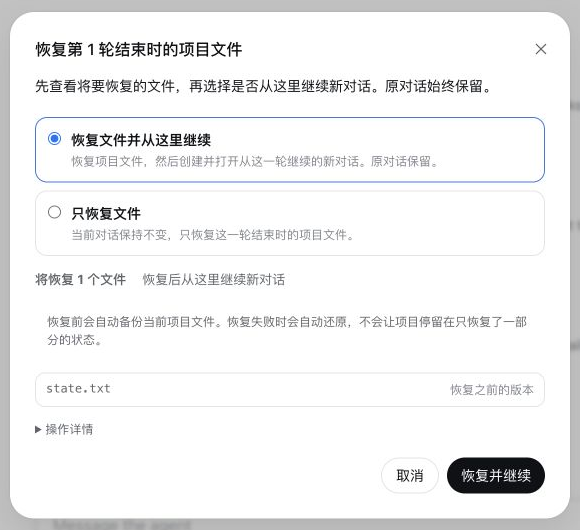
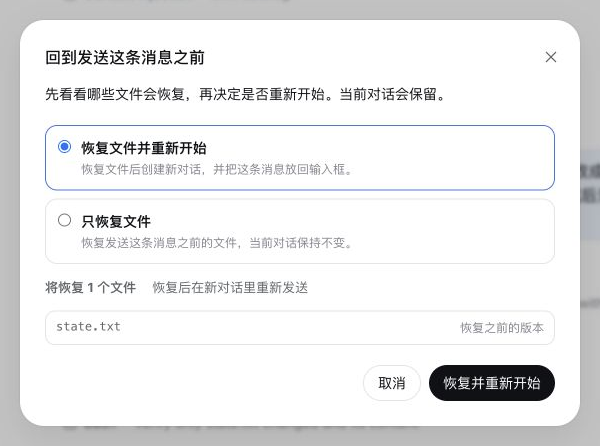
docs: show prompt-anchored rewind flow

diff --git a/README.md b/README.md
@@ -2,7 +2,7 @@
 
 [中文说明](README.zh.md)
 
-Turn-level project-file recovery for [DeepSeek Harness](https://github.com/deepseek-ai/deepseek-harness), with an option to continue from the restored turn.
+Message-anchored project-file recovery for [DeepSeek Harness](https://github.com/deepseek-ai/deepseek-harness), with an option to restart from the restored request.
 
 **Turn Rewind** is the user-facing feature, repository, and Profile Bundle name. **Change Ledger** is the durable restore engine underneath it: the `ctx.changeLedger` service, `change_ledger_*` tools, on-disk format, and storage path keep that name because they describe the reusable snapshot and recovery layer rather than the Web action alone.
 
@@ -26,11 +26,11 @@ It never commits, stashes, resets, switches branches, edits the Git index, or de
 
 ## Preview
 
-Rewind appears as the third icon beside DSH's native Copy and Branch actions:
+Rewind appears as an icon-only third action under each user message, after its timestamp and native Copy action:
 
-![Turn Rewind action beside Copy and Branch](docs/assets/turn-rewind-action.png)
+![Turn Rewind action under a user message](docs/assets/turn-rewind-action.png)
 
-Opening it shows the affected files and offers two choices: restore the files and continue from that turn, or restore only the files:
+Opening it shows the affected files and offers two choices: restore the files and restart from before that message, or restore only the files:
 
 ![Turn Rewind review dialog](docs/assets/turn-rewind-dialog.png)
 
@@ -101,22 +101,22 @@ Restart a running profile after changing its bundle list.
 
 The package is a DSH Profile Bundle. `package.json` declares `dsh.bundle.patch`, and `cordis.patch.yml` mounts `@dsh-external/turn-rewind` without a DSH core patch.
 
-When the profile also provides the DSH Agent service, the plugin claims the Agent's idle maintenance boundary after each completed turn and captures a hidden checkpoint before queued work may start another turn. It deliberately does not synthesize checkpoints for history resumed before the plugin observed its turn boundary, because the current project files may no longer represent that earlier turn. In Web profiles, the same-origin `/turn-rewind` endpoint exposes a paged file preview, mints the ordinary short-lived, session-bound restore plan, and delegates “continue from here” child creation to DSH's official Host fork lifecycle. It never restores merely because a turn completed.
+When the profile also provides the DSH Agent service, the plugin captures a hidden checkpoint in the first `agent/pre-step` waterfall before the Agent processes the opening user message. Capture failures are reported but do not reject the user's turn; the corresponding message simply has no usable rewind point. In Web profiles, the same-origin `/turn-rewind` endpoint resolves the selected `user/message` sequence, exposes a paged file preview, mints a short-lived session-bound restore plan, and delegates child creation to DSH's official Host create/fork lifecycle. It never restores files automatically.
 
 ## User flow
 
-In the Web profile, each finalized assistant turn gains a compact, icon-only **Rewind** action in the third position after the native Copy and Branch controls. The icon is a backward/undo arrow rather than a retry symbol. Opening Rewind checks the saved file state lazily, shows a concise preview with a “view all files” action, and offers two modes:
+In the Web profile, each direct user message gains a compact, icon-only **Rewind** action after its timestamp and native Copy control. The tooltip reads “Return to before sending this message.” Opening Rewind checks the saved file state, shows a concise preview with a “view all files” action, and offers two modes:
 
 | Mode | Code | Conversation |
 | --- | --- | --- |
-| **Restore files and continue** (default) | Restores the project files after automatically backing up their current state. | Creates and opens a child Session ending at the selected turn. |
+| **Restore files and restart** (default) | Restores the project files after automatically backing up their current state. | Creates and opens a Session ending before the selected message, then puts that message's text back in the composer. |
 | **Restore files only** | Restores the project files after automatically backing up their current state. | Leaves the current Session open and unchanged. |
 
-The dialog itself is the confirmation: there is no duplicate checkbox. It describes each file as restoring an earlier version, finding a deleted file, removing a later-added file, or restoring permissions/type. Internal checkpoint, plan, and backup identifiers live under collapsed operation details. If the project files already match the selected turn, Turn Rewind performs no action and directs the user to the native **Branch** button for conversation-only branching.
+The dialog itself is the confirmation: there is no duplicate checkbox. It describes each file as restoring an earlier version, finding a deleted file, removing a later-added file, or restoring permissions/type. If the project files already match the state before the selected message, Turn Rewind performs no action and directs the user to the native **Branch** button for conversation-only branching.
 
-Before mutation, Turn Rewind rechecks the selected files and repository state, then creates an automatic backup. Changes made after preview invalidate the operation. Another running Session using the same worktree blocks restoration because file recovery would affect that conversation too; idle Sessions do not block. If child creation fails after “restore and continue,” Change Ledger automatically restores the pre-operation files from the backup.
+Before mutation, Turn Rewind rechecks the selected files and repository state, then creates an automatic backup. Changes made after preview invalidate the operation. Any running Agent using the same worktree, including the source Session, blocks restoration; idle Sessions do not block. A reviewed HEAD or branch difference does not block restoration: commits, refs, branch, and index remain unchanged, so restored content may appear as ordinary uncommitted changes against the current HEAD. An in-progress Git operation still blocks. If child creation fails after “restore and restart,” Change Ledger automatically restores the pre-operation files from the backup.
 
-DSH Session logs are append-only, so “continue from here” asks the official Host API to create a child at the exact completed-turn boundary and then opens that child. A forked child may reuse an ancestor's checkpoint only while the requested boundary is inside every durable `seedLength` fence and still matches the ancestor's exact `turn/end`; direct child checkpoints take priority and sibling checkpoints never mix. **Branch** creates only a conversation branch and keeps project files unchanged; **Turn Rewind** always restores project files, optionally followed by a conversation branch. The original Session is always retained.
+DSH Session logs are append-only, so “restart” creates a new Session instead of truncating the original. For the first message, the Host creates a blank Session in the same working directory; for later messages, it forks at the previous completed `turn/end`. A child may reuse an ancestor's prompt checkpoint only while both the selected `user/message` and its exact `turn/start` remain inside every durable `seedLength` fence. Direct child checkpoints take priority and sibling checkpoints never mix. **Branch** creates only a conversation branch and keeps project files unchanged; **Turn Rewind** always restores project files, optionally followed by a new conversation with the selected prompt restored to the composer. The original Session is always retained.
 
 Example requests:
 

diff --git a/docs/IMPLEMENTATION_PLAN.md b/docs/IMPLEMENTATION_PLAN.md
@@ -1,54 +1,56 @@
-# Turn Rewind 实施计划
+# Turn Rewind 对齐计划
 
 ## 目标
 
-将 Turn Rewind 调整为面向普通用户的文件恢复功能，明确它与“分支新对话”（Branch）的功能边界，并补齐多 Session、多层分叉和共享工作区场景下的安全处理。
+让 Web 端 Rewind 以用户消息为锚点：用户点击消息下方的回退图标，就能查看并恢复“发送这条消息之前”的项目文件，并可选择在新对话里重新开始。产品语义对齐 Claude Code，同时保留 Change Ledger 对完整工作树、自动备份、失败回滚和持久恢复的支持。
 
-## 实施内容
+## 已实现内容
 
-### 1. 简化用户界面和文案
+### 1. 用户消息锚点
 
-- 将“工作区”“代码路径”“救援点”“恢复计划”等技术术语替换为用户容易理解的“项目文件”“自动备份”“恢复文件”等表述。
-- 将默认操作改为“恢复文件并从这里继续”，第二个操作改为“只恢复文件”。
-- 删除“仅回退对话”选项，由现有“分支新对话”功能统一承担只创建对话分支的场景。
-- 删除重复确认复选框，将弹窗中的影响范围展示和最终主按钮点击作为确认流程。
-- 根据所选模式动态显示“恢复并继续”或“恢复文件”按钮。
-- 将底层检查点、分支、恢复计划和备份标识等信息收进默认折叠的操作详情。
+- 回退图标从 Assistant 回复操作栏移到用户消息下方，排在时间和“复制”之后，无文字显示。
+- 提示和弹窗标题统一为“回到发送这条消息之前”。
+- 客户端按 `user/message` 的 `seq` 请求预览，不再用 Assistant Turn 尾部作为入口。
+- 新对话创建后，会把所选用户消息的文字放回输入框。
 
-### 2. 改善文件变化展示
+### 2. 消息发送前保存文件
 
-- 使用“将恢复 N 个文件”替代“代码路径与该轮不同”。
-- 按文件的实际变化显示“恢复之前的版本”“找回文件”“移除后来新增的文件”或“恢复文件权限”等结果。
-- 文件较多时提供简洁预览和查看全部入口。
-- 没有文件需要恢复时，不再把 Rewind 退化为“分支新对话”，而是提示用户文件无需恢复，并引导使用“分支新对话”创建新对话。
+- 在每轮第一次 `agent/pre-step` 中、调用 `next()` 之前保存文件状态。
+- 保存点精确绑定 `turn/start`，保证语义是 Agent 尚未处理这条用户消息。
+- 同一工作树的保存操作串行执行。
+- 保存失败会记录错误，但不会阻断用户 Turn；失败的消息不会伪造可用状态，也不会在 Turn 结束后重试并错误标记当前文件。
 
-### 3. 强化安全状态处理
+### 3. 恢复与重新开始
 
-- 正常恢复时显著告知用户当前文件会先自动备份，恢复失败时会自动还原。
-- 文件在预览后发生变化时，使当前恢复操作失效，并要求重新检查。
-- 检测同一工作区是否被其他活跃 Session 使用；存在并发修改风险时明确提示并阻止恢复。
-- 明确告知共享工作区中的文件恢复会影响使用该目录的其他对话。
-- 保留恢复前备份、计划过期检查、恢复后验证和失败补偿等底层安全机制。
+- **恢复文件并重新开始：**先恢复文件，再创建新对话，并把原消息文字放回输入框。
+- **只恢复文件：**只改项目文件，当前对话保持不变。
+- 第一条消息之前没有完整 Turn，使用 Host `session.create` 在同一目录创建空 Session。
+- 后续消息使用 Host `session.fork`，边界是所选消息之前的上一条 `turn/end`。
+- 原 Session 始终保留；只分支对话、文件不变的需求继续由原生“分支新对话”负责。
 
-### 4. 补齐多分叉场景
+### 4. Git 状态处理
 
-- 验证多层父子 Session 可以沿祖先链正确找到继承范围内的检查点。
-- 验证多个兄弟分支之间的检查点互不混用。
-- 验证子 Session 自己的检查点优先于祖先检查点。
-- 验证每一层 Fork 的继承边界，禁止跨越 `seedLength` 使用祖先检查点。
-- 覆盖重启后从持久化 Session 中恢复多层分叉关系的情况。
-- 对父 Session 缺失、分叉关系循环、边界不一致和检查点被清理等异常情况安全失败。
-- 覆盖多个分支同时预览、恢复或使用同一工作区时的冲突处理。
+- HEAD 前进或当前分支变化不再直接阻止恢复；预览说明影响后，以 `allowHeadChange` 生成恢复计划。
+- 恢复不会撤销 commit、切换分支、移动 HEAD 或修改 index；恢复结果可以表现为当前 HEAD 上的未提交修改。
+- 合并、变基、cherry-pick 等 Git 操作状态变化继续阻止恢复。
+- 预览后 HEAD、分支、Git 操作或所选文件再次变化，现有计划仍会失效。
 
-### 5. 调整接口、测试和文档
+### 5. 并发、分叉与失败处理
 
-- 移除前端和后端中不再需要的“仅回退对话”模式及相关测试。
-- 更新 UI、接口、错误状态和文件变化类型的自动化测试。
-- 更新中英文 README、使用说明和产品截图，使其与新交互保持一致。
-- 完成构建、完整测试、安装包检查和真实 Web 交互验证后再提交推送。
+- 同一工作树只要存在正在运行的 Agent，包括来源 Session 自己，就阻止 Web 恢复；idle Session 不阻止。
+- 子 Session 先使用自己的保存点，再沿祖先查找；兄弟分支互不混用。
+- 祖先复用要求所选 `user/message` 和对应 `turn/start` 在每一层都低于 `seedLength`，并且边界完全一致。
+- 父 Session 缺失、分叉循环或边界不一致时安全失败。
+- 恢复前创建自动备份；创建新对话失败时，立即用备份补偿恢复前的文件状态。
+
+### 6. 持久格式兼容
+
+- 新 Turn 保存点写入 `turnStartSeq`。
+- 旧版 `turnEndSeq` manifest 仍可读取，避免破坏格式版本 1，但不会被绑定到新的用户消息入口。
+- `turn` manifest 必须且只能携带一种 Turn 边界。
 
 ## 最终功能边界
 
-- **分支新对话（Branch）：**从所选回复创建新对话，项目文件保持不变。
-- **Turn Rewind：**将项目文件恢复到所选回复完成时，并可选择是否从该位置继续新对话。
-- **Change Ledger：**继续作为 Turn Rewind 底层的持久检查、自动备份和安全恢复引擎，不在普通用户主流程中暴露实现术语。
+- **分支新对话（Branch）：**从现有对话创建分支，项目文件保持不变。
+- **Turn Rewind：**恢复到发送所选用户消息之前的项目文件，并可选择创建新对话重新开始。
+- **Change Ledger：**提供持久保存、差异预览、短期恢复计划、自动备份、原子恢复、失败回滚和重启对账，不在普通用户主流程中暴露底层术语。

diff --git a/README.zh.md b/README.zh.md
@@ -26,11 +26,11 @@ Agent / 用户 / 外部程序修改工作树
 
 ## 效果预览
 
-回退入口是 DSH 原生“复制”和“分支新对话”（Branch）之后的第三个纯图标：
+每条用户消息下方依次显示时间、DSH 原生“复制”和第三个纯图标“回退”：
 
-![复制和分支新对话之后的 Turn Rewind 图标](docs/assets/turn-rewind-action.png)
+![用户消息下方的 Turn Rewind 图标](docs/assets/turn-rewind-action.png)
 
-打开后会先展示受影响文件，可选择“恢复文件并从这里继续”或“只恢复文件”：
+打开后会先展示受影响文件，可选择“恢复文件并重新开始”或“只恢复文件”：
 
 ![Turn Rewind 审阅弹窗](docs/assets/turn-rewind-dialog.png)
 
@@ -99,22 +99,22 @@ dsh --profile web --dump-config | grep turn-rewind
 
 本仓库是标准 DSH Profile Bundle：`package.json` 声明 `dsh.bundle.patch`，`cordis.patch.yml` 直接挂载 `@dsh-external/turn-rewind`，不修改 DSH 主仓库。
 
-当 Profile 同时提供 DSH Agent 服务时，插件会在每个已完成 Turn 后同步占用 Agent 的 idle maintenance 边界，先保存隐藏的文件状态，再允许排队输入启动下一轮。插件不会为其开始观察 Turn 边界之前恢复的历史记录伪造文件状态，因为当前项目文件可能早已不再代表过去那一轮。Web Profile 还会提供同源 `/turn-rewind` 接口：分页返回文件预览，生成短期、会话绑定的恢复授权，并把“从这里继续”的子 Session 创建委托给 DSH 官方 Host fork 生命周期。Turn 完成只会保存状态，绝不会自动恢复文件。
+当 Profile 同时提供 DSH Agent 服务时，插件会在每轮第一次 `agent/pre-step`、Agent 开始处理用户消息之前保存隐藏文件状态。保存失败只会让该消息无法回退，不会拦住用户这一轮。Web Profile 还会提供同源 `/turn-rewind` 接口：根据所选 `user/message` 序号找到对应状态，分页返回文件预览，生成短期、会话绑定的恢复授权，并把新对话创建交给 DSH 官方 Host create/fork 生命周期。插件绝不会自动恢复文件。
 
 ## 使用流程
 
-在 Web Profile 中，每个已落定的 Assistant Turn 都会在原生“复制”和“分支新对话”操作之后的第三位显示一个紧凑、无文字的**回退**图标。图标使用明确的向后/撤销箭头，而不是“重试”圆形箭头。打开后按需检查保存的文件状态，先显示简洁预览，需要时可“查看全部文件”，并提供两种模式：
+在 Web Profile 中，每条用户消息下方都会在时间和原生“复制”之后显示一个紧凑、无文字的**回退**图标，提示是“回到发送这条消息之前”。图标使用明确的向后/撤销箭头，而不是“重试”圆形箭头。打开后会检查保存的文件状态，先显示简洁预览，需要时可“查看全部文件”，并提供两种模式：
 
 | 模式 | 代码 | 对话 |
 | --- | --- | --- |
-| **恢复文件并从这里继续**（默认） | 自动备份当前状态后恢复项目文件。 | 创建并自动打开截至所选 Turn 的子 Session。 |
+| **恢复文件并重新开始**（默认） | 自动备份当前状态后恢复项目文件。 | 创建并打开停在所选消息之前的新对话，再把这条消息的文字放回输入框。 |
 | **只恢复文件** | 自动备份当前状态后恢复项目文件。 | 当前 Session 保持原位且内容不变。 |
 
-弹窗和最终主按钮就是确认流程，不再要求重复勾选。文件会按实际结果显示为“恢复之前的版本”“找回文件”“移除后来新增的文件”“恢复文件权限”或“恢复之前的文件类型”。底层文件状态、恢复授权和自动备份标识默认收进折叠的“操作详情”。如果项目文件已经与所选 Turn 一致，Turn Rewind 不会退化为“分支新对话”，而是提示无需恢复并引导用户使用原生的**分支新对话**按钮。
+弹窗和最终主按钮就是确认流程，不再要求重复勾选。文件会按实际结果显示为“恢复之前的版本”“找回文件”“移除后来新增的文件”“恢复文件权限”或“恢复之前的文件类型”。如果项目文件已经是发送所选消息之前的状态，Turn Rewind 不会退化为“分支新对话”，而是提示无需恢复并引导用户使用原生的**分支新对话**按钮。
 
-真正修改前，Turn Rewind 会再次检查所选文件和项目版本状态，并先创建自动备份。预览后出现的新变化会让本次恢复失效。同一工作树如果还有其他 Session 正在运行，恢复会被阻止，因为文件变化也会影响那些对话；仅处于空闲状态的 Session 不会阻止恢复。如果“恢复并继续”在创建新对话时失败，Change Ledger 会自动从备份恢复操作前的文件。
+真正修改前，Turn Rewind 会再次检查所选文件和项目版本状态，并先创建自动备份。预览后出现的新变化会让本次恢复失效。同一工作树只要还有正在运行的 Agent（包括当前来源 Session），恢复就会被阻止；仅处于空闲状态的 Session 不会阻止恢复。已经审阅过的 HEAD 或分支变化不会阻止恢复：commit、分支、HEAD 和 index 都保持不变，恢复后的内容可能表现为当前 HEAD 上的未提交修改。Git 正在合并、变基等操作时仍会阻止。如果“恢复并重新开始”在创建新对话时失败，Change Ledger 会自动从备份恢复操作前的文件。
 
-DSH Session 日志是 append-only，因此“从这里继续”的底层实现是：让官方 Host API 从精确的已完成 Turn 边界创建子 Session，再自动打开该子 Session。Fork 子 Session 只有在目标边界位于每一层持久化 `seedLength` 围栏内、并仍与祖先的精确 `turn/end` 一致时，才能复用祖先文件状态；子 Session 自己的状态优先，兄弟分支之间不会混用。**分支新对话**只创建对话分支且保持项目文件不变；**Turn Rewind** 一定恢复项目文件，并可选择是否随后创建对话分支。原 Session 始终保留。
+DSH Session 日志只追加不改写，因此“重新开始”会创建新 Session，而不是截断原对话。选中第一条消息时，Host 会在同一目录创建空 Session；选中后续消息时，会在上一轮 `turn/end` 处分叉。只有所选 `user/message` 和对应的精确 `turn/start` 都低于每一层持久 `seedLength` 时，子 Session 才能复用祖先保存的状态；子 Session 自己的状态优先，兄弟分支绝不混用。**分支新对话**只创建对话分支且保持项目文件不变；**Turn Rewind**一定恢复项目文件，再由用户决定是否创建新对话并把原消息放回输入框。原 Session 始终保留。
 
 可以直接向 Agent 提出：
 

diff --git a/SECURITY.md b/SECURITY.md
@@ -18,9 +18,9 @@ Workspace restoration requires all of the following:
 
 The Web rewind adapter obtains the same session-bound plan and exact confirmation from a same-origin preview request, then sends both only after the user reviews the affected files and presses the final restore button. Direct mutation requests without that live plan pair fail closed. Conversation-only branching is deliberately absent and remains the responsibility of DSH's native Branch action.
 
-Restore-and-continue verifies that the durable checkpoint still names the exact `turn/end` event before delegating child creation to DSH's official Host API. A forked Session may resolve that checkpoint through its parent lineage only while the boundary remains below every durable `seedLength`, every ancestor contains the same turn and seq, and the checkpoint names that exact seq. A direct checkpoint wins over an inherited checkpoint, sibling checkpoints are isolated, and malformed or missing lineage fails closed. The Host owns seed creation, model-target inheritance, persistence, and Workspace attachment. The original append-only Session remains intact.
+Restore-and-restart verifies that the durable checkpoint still names the exact `turn/start` before the selected `user/message`. A forked Session may resolve that checkpoint through its parent lineage only while both event sequences remain below every durable `seedLength` and every ancestor contains the same message and turn boundary. A direct checkpoint wins over an inherited checkpoint, sibling checkpoints are isolated, and malformed or missing lineage fails closed. The first message restarts through Host `session.create`; later messages fork at the previous completed `turn/end`. The Host owns seed creation, model-target inheritance, persistence, and Workspace attachment. The original append-only Session remains intact.
 
-Restore-and-continue restores files first, then creates the conversation child. If child creation fails, the adapter immediately applies the first restore's rescue point to compensate the file change. If compensation also fails, the ordinary durable restore journals and rescue points remain available for manual recovery rather than hiding a partial outcome. A second running Agent using the same canonical worktree blocks Web restoration before mutation and is rechecked at apply time; idle Agents do not create a concurrent writer risk.
+Restore-and-restart restores files first, then creates the conversation child. If child creation fails, the adapter immediately applies the first restore's rescue point to compensate the file change. If compensation also fails, the ordinary durable restore journals and rescue points remain available for manual recovery rather than hiding a partial outcome. Any running Agent using the same canonical worktree, including the source Session, blocks Web restoration before mutation and is rechecked at apply time; idle Agents do not create a concurrent writer risk. A reviewed HEAD or branch difference is allowed because restoration never moves refs, HEAD, the branch, or the index; a changed or newly active Git operation remains blocked.
 
 An absent approval channel fails closed through DSH's standard `ask` behavior.
 
@@ -46,7 +46,7 @@ Restore journals are written before worktree mutation. A failed restore attempts
 - It does not restore Git index entries, refs, commits, stash state, ignored files, submodules, or repository operation metadata.
 - It does not preserve extended attributes, ACLs, ownership, timestamps, or hard-link identity.
 - It does not provide confidentiality or tamper resistance against the same operating-system user. State files are owner-only by default, but the host user remains trusted.
-- It automatically captures bounded, hidden checkpoints after completed DSH turns when the rewind adapter is active; it never automatically applies one. User and rescue restore points remain explicit.
+- It automatically captures bounded, hidden checkpoints before the first step of newly observed DSH turns when the rewind adapter is active; it never automatically applies one. User and rescue restore points remain explicit.
 
 ## Reporting
 

diff --git a/docs/FORMAT.md b/docs/FORMAT.md
@@ -38,6 +38,7 @@ interface RestorePointManifestV1 {
   label?: string
   parentRestorePoint?: string
   turn?: number
+  turnStartSeq?: number
   turnEndSeq?: number
   createdAt: number
   treeHash: string
@@ -62,7 +63,7 @@ interface SymlinkEntry {
 }
 ```
 
-`turn` manifests are automatic, hidden checkpoints used by the Web rewind surface. They require `sessionId`, `turn`, and the inclusive `turnEndSeq`; those fields are rejected on `user` and `rescue` manifests. This is an additive version-1 shape: pre-existing version-1 user and rescue manifests remain valid, while malformed or partially anchored turn manifests fail closed.
+`turn` manifests are automatic, hidden checkpoints used by the Web rewind surface. New checkpoints require `sessionId`, `turn`, and the inclusive `turnStartSeq` observed before the Agent enters its first step. Version-1 checkpoints written by the earlier assistant-tail implementation may instead carry `turnEndSeq`; readers preserve them for format compatibility, but prompt-anchored Web rewind never binds them to a user message. Exactly one turn boundary is required, and turn metadata is rejected on `user` and `rescue` manifests. Malformed or partially anchored turn manifests fail closed.
 
 Entry keys are canonical Git-style relative paths using `/`. Absolute paths, empty segments, `.` segments, `..` segments, and NUL bytes are rejected before filesystem resolution.
 
